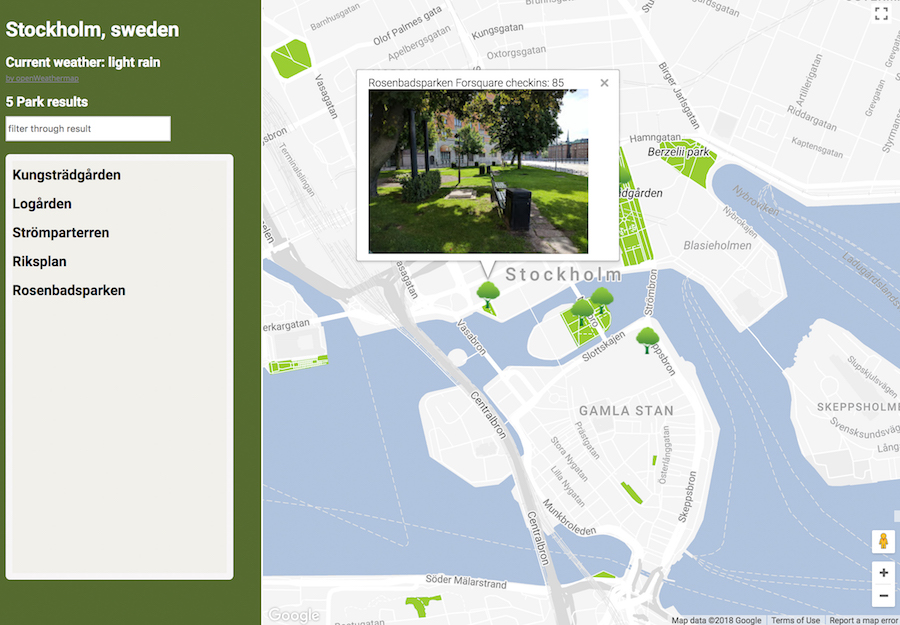
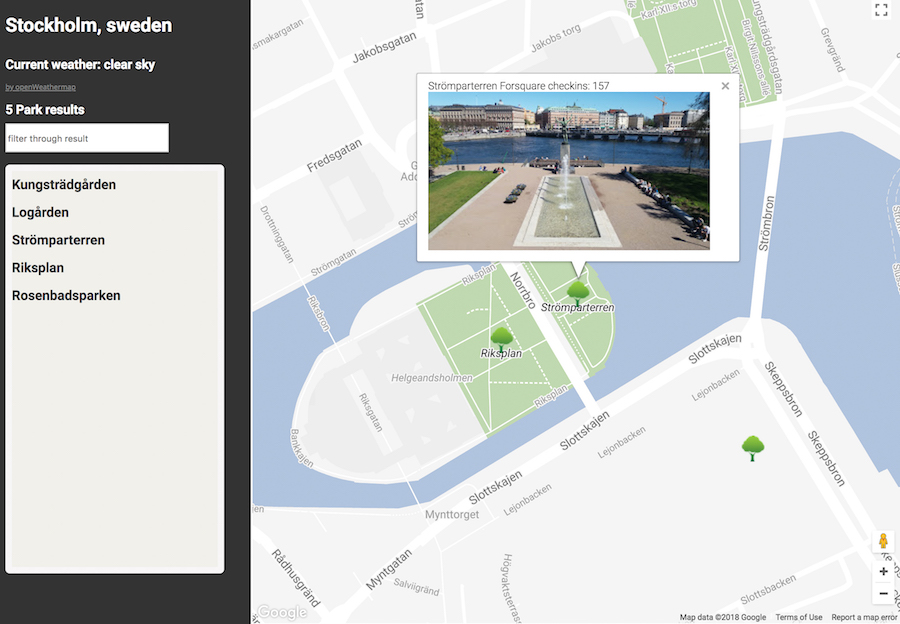
new image in readme

diff --git a/css/style.css b/css/style.css
@@ -23,7 +23,7 @@ p {
  .info-box {
      order: 1;
      flex-grow: 1;
-     background: #8FA880;
+     background: #333;
      height: 100%;
      line-height: 35px;
      padding: 10px 10px 30px 10px;
